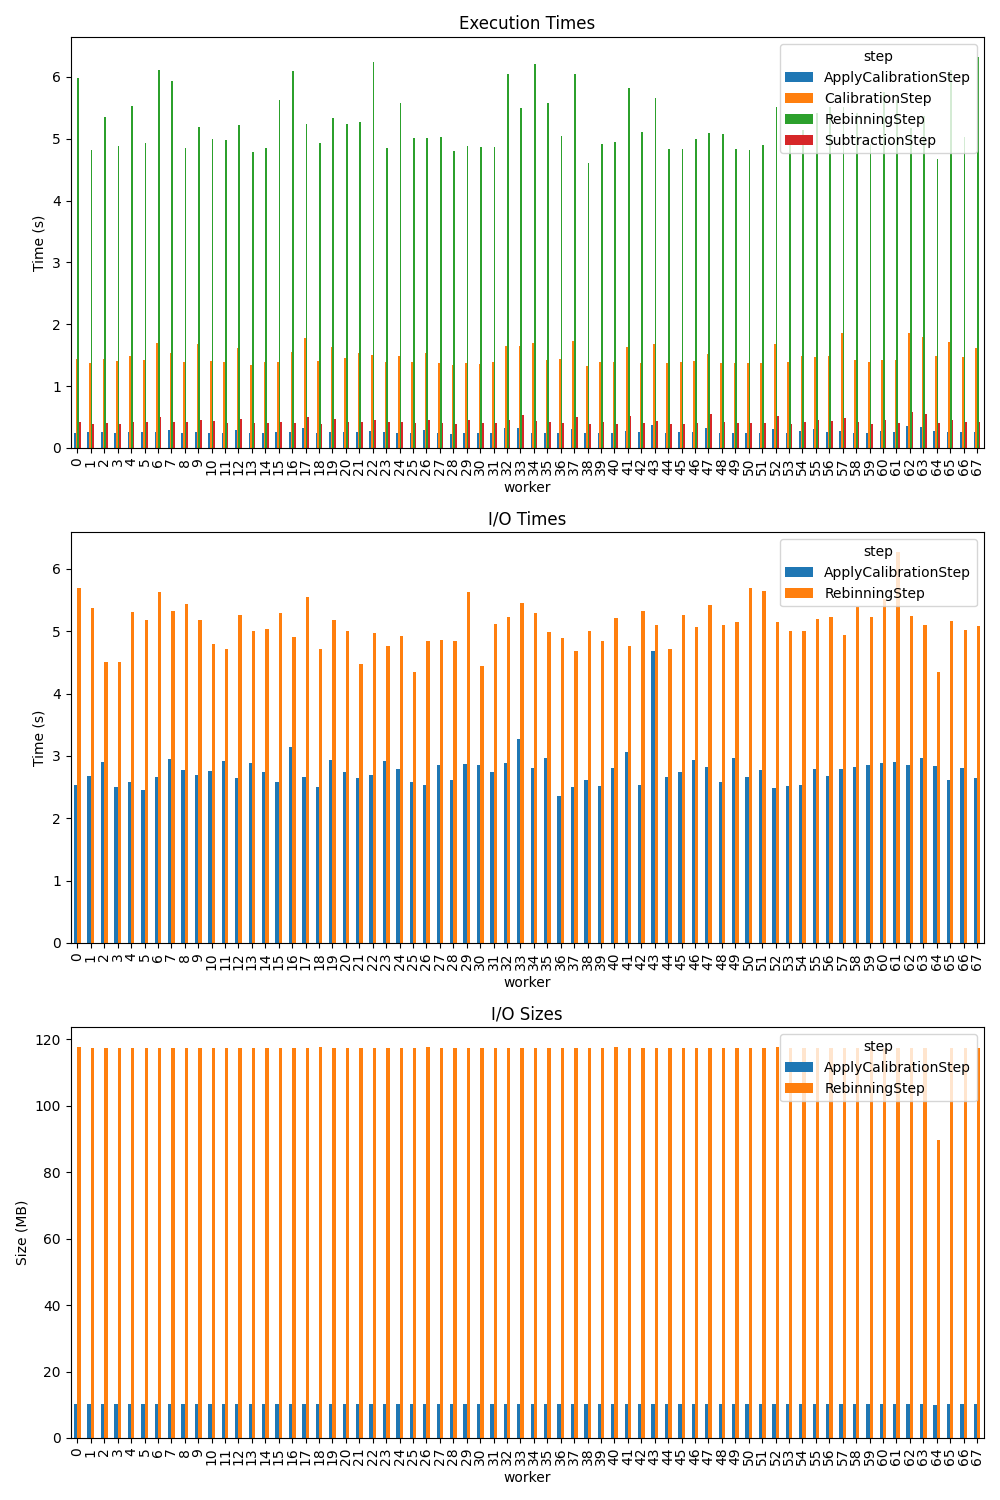
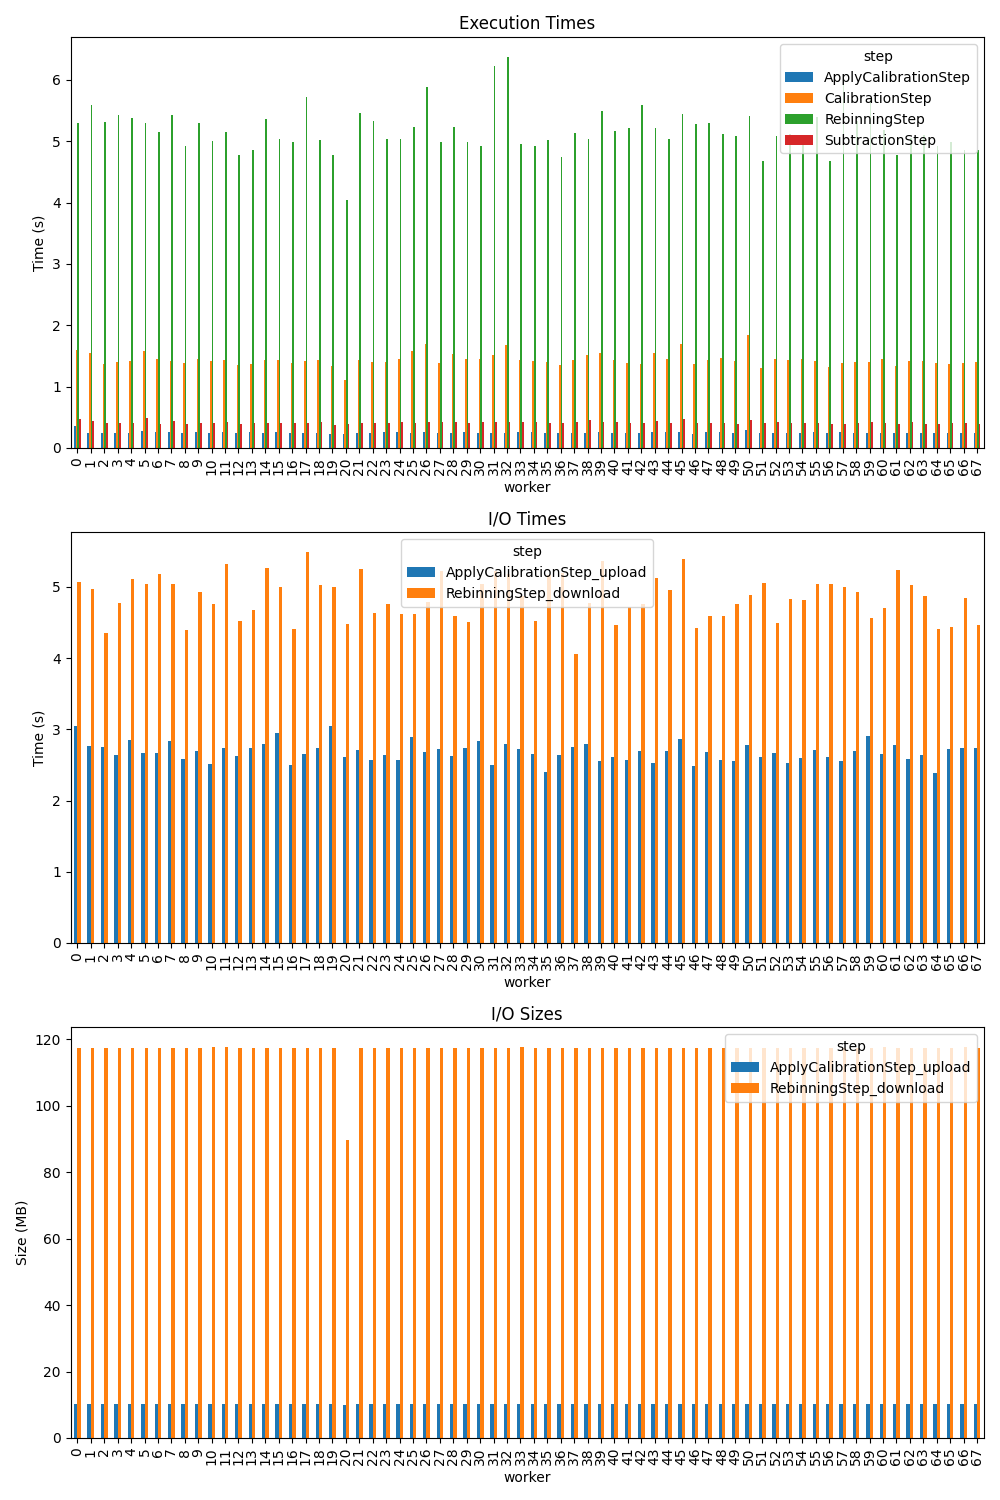
differentiate between download and upload

diff --git a/pipeline.py b/pipeline.py
@@ -79,17 +79,16 @@ if "__main__" == __name__:
                 {"worker": i, "step": step_name, "time": step_data.get('execution', 0)})
 
             if 'download_time' in step_data:
-                io_times.append({"worker": i, "step": step_name,
+                io_times.append({"worker": i, "step": f"{step_name}_download",
                                 "time": step_data['download_time']})
-                io_sizes.append({"worker": i, "step": step_name,
+                io_sizes.append({"worker": i, "step": f"{step_name}_download",
                                 "size": step_data['download_size']})
 
             if 'upload_time' in step_data:
-                io_times.append({"worker": i, "step": step_name,
+                io_times.append({"worker": i, "step": f"{step_name}_upload",
                                 "time": step_data['upload_time']})
-                io_sizes.append({"worker": i, "step": step_name,
+                io_sizes.append({"worker": i, "step": f"{step_name}_upload",
                                 "size": step_data['upload_size']})
-
     execution_times_df = pd.DataFrame(execution_times)
     io_times_df = pd.DataFrame(io_times)
     io_sizes_df = pd.DataFrame(io_sizes)
